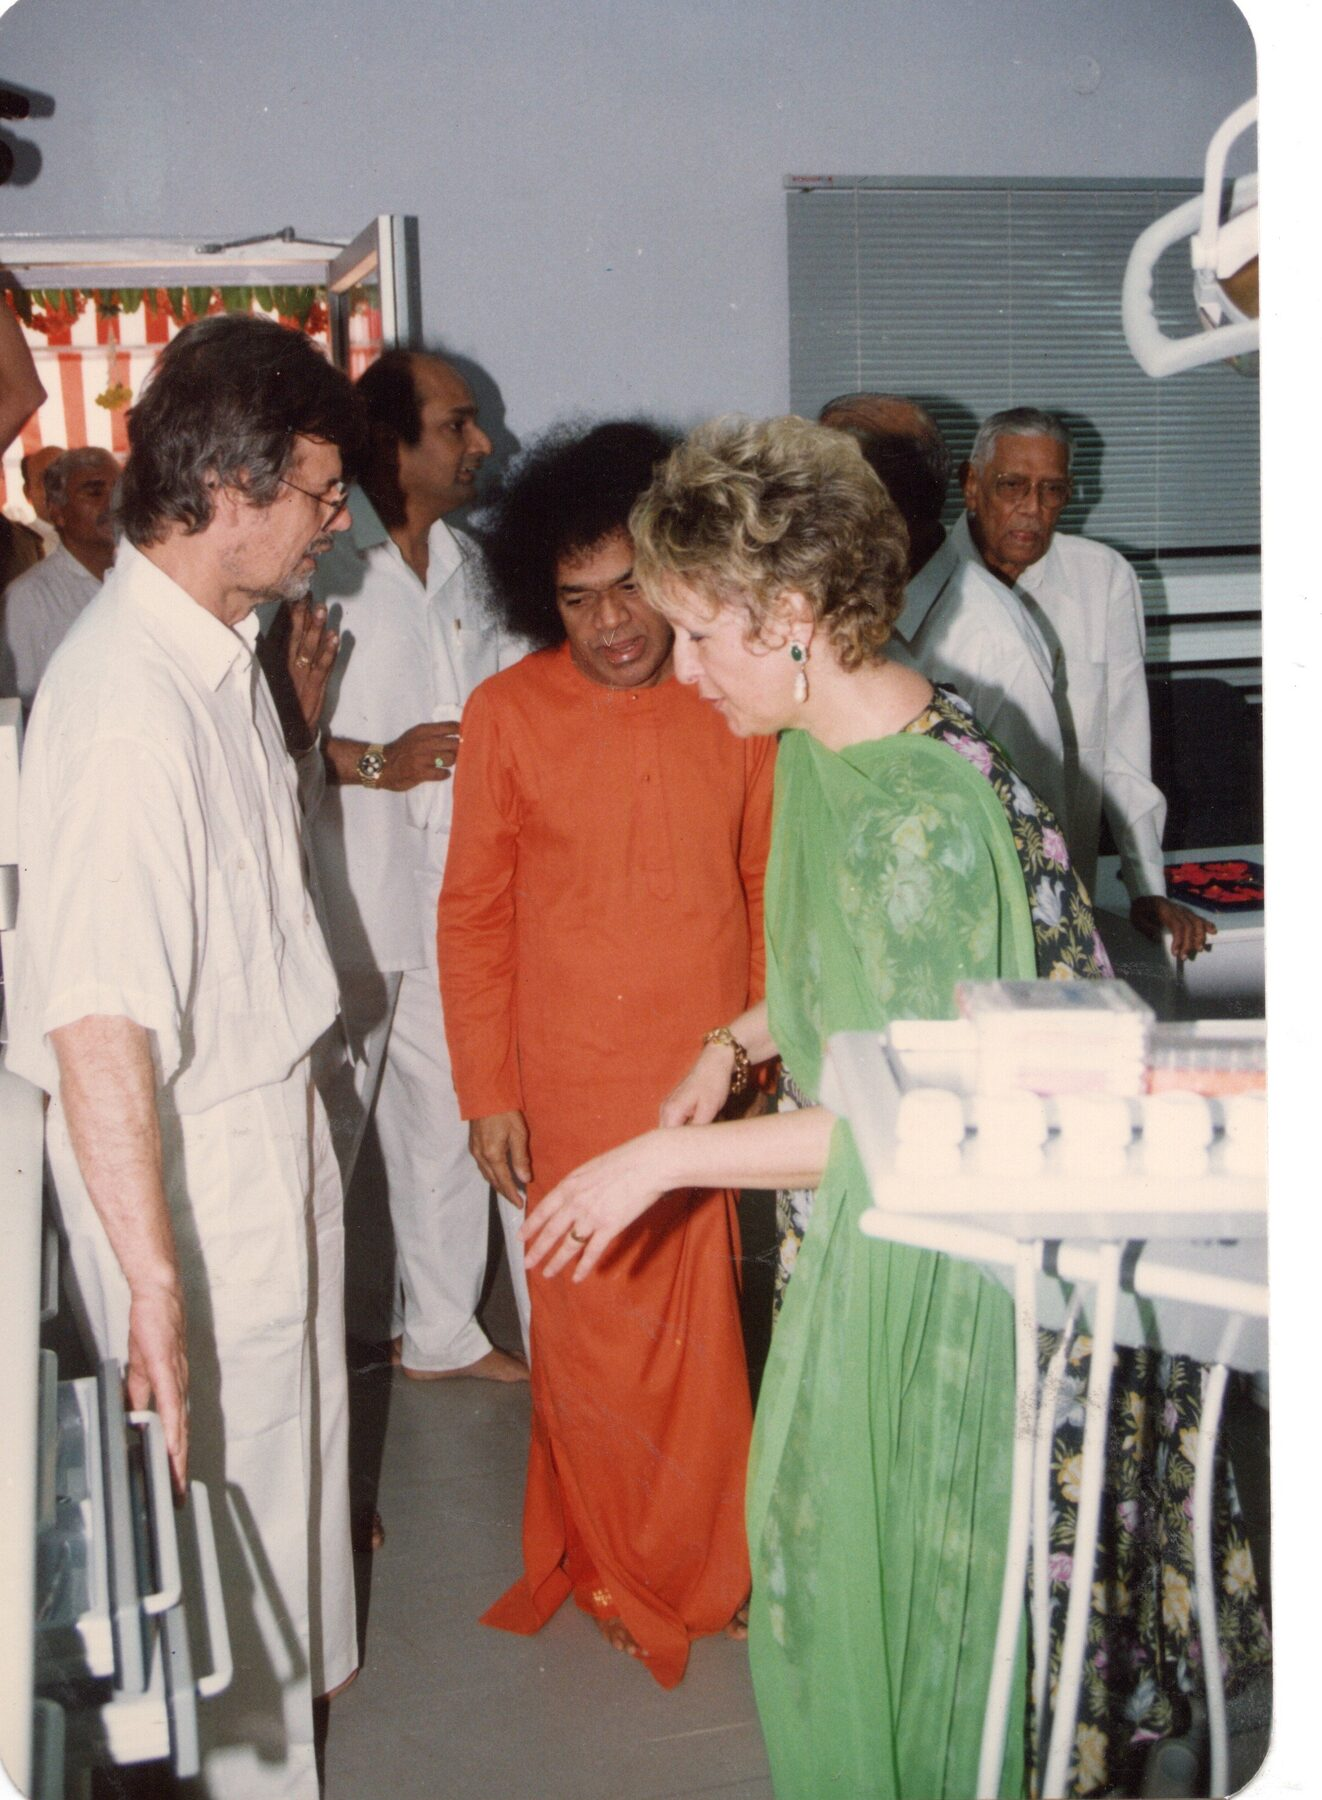
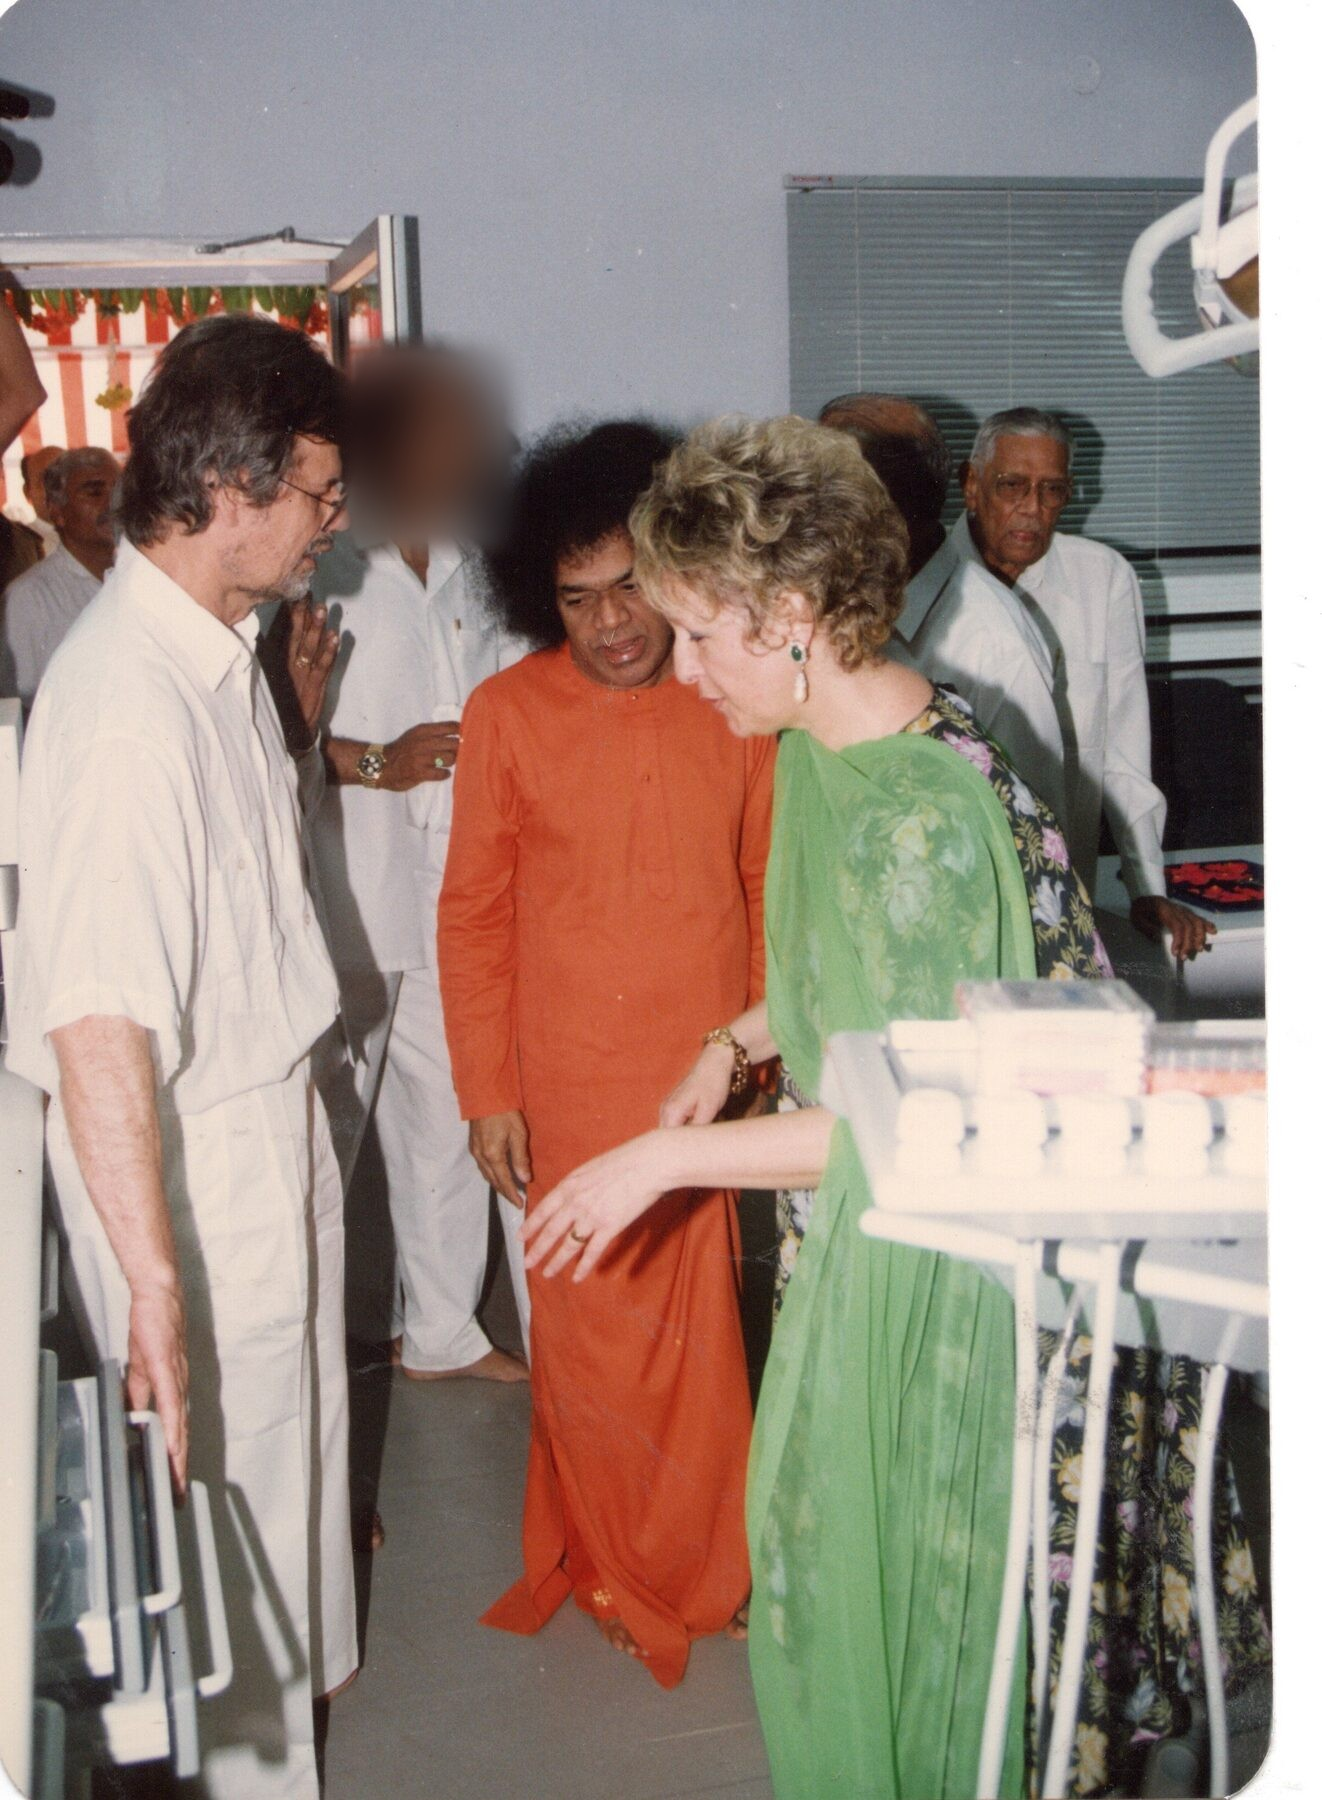
Blur requested faces in four archive photos

Changed region(s): [[0.2481, 0.1867, 0.4032, 0.3111]]

diff --git a/docs/live-only-changes.md b/docs/live-only-changes.md
@@ -641,3 +641,12 @@ Same three pages; `toc-nav.js` only (HTML files changed only in the script tag, 
 `toc-nav.js` only; script tag now `?v=20260927d`.
 - The bundle's search hides non-matching poems but re-picks the highlighted contents entry only on the next scroll, so a search that did not move the page (e.g. at the top) left a hidden poem lit. After each search input or Clear, `toc-nav.js` fires a synthetic `scroll` so the bundle's own handler re-picks among the poems still showing. No bundle change.
 - Backups on the VM: `/home/azureuser/poetry-pages.bak-20260927d/`.
+
+## 2026-09-28 — Faces blurred in four archive photos (History-GH, Dental)
+Faces blurred at the hospital's request (the person had been marked out in black on screenshots): `opd-inauguration-1.jpg`, `ganesha-1.jpg`, `ganesha-3.jpg` (History page, 53322) and `dental-inauguration-1.jpg` (Dental page, 53304). Pixelate + Gaussian blur with a feathered edge over the marked area; nothing else in the photos changed.
+- Every copy was replaced: the WordPress originals (attachments 55593, 55582, 55584, 55579) with all sizes regenerated from them, `uploads/sssihms-assets/sssgh/`, the higher-resolution copies served by wfd.sssihms.org (`/srv/www/wfd/assets/sssgh/`), and `src/assets/sssgh/` in this repo.
+- Site-wide check: all ~23,500 images under `/srv/www` were compared (same-shape candidates, 32×32 greyscale match) — these four photos exist only in those locations. Related event photos were checked by eye for the Dental person; no other appearance found. Different photos of the same person cannot be found automatically (no face recognition).
+- Images are served with a 1-year cache, so the page image URLs now carry `?v=20260928` (History: 3 URLs, Dental: 1). wfd.sssihms.org sends no long cache header and its HTML was left unchanged.
+- Backups on the VM: `/home/azureuser/history-gh-faceblur-bak-20260928/`, `/home/azureuser/faceblur-bak-20260928/`.
+- The unblurred versions remain in this repo's git history (commits before this one).
+
